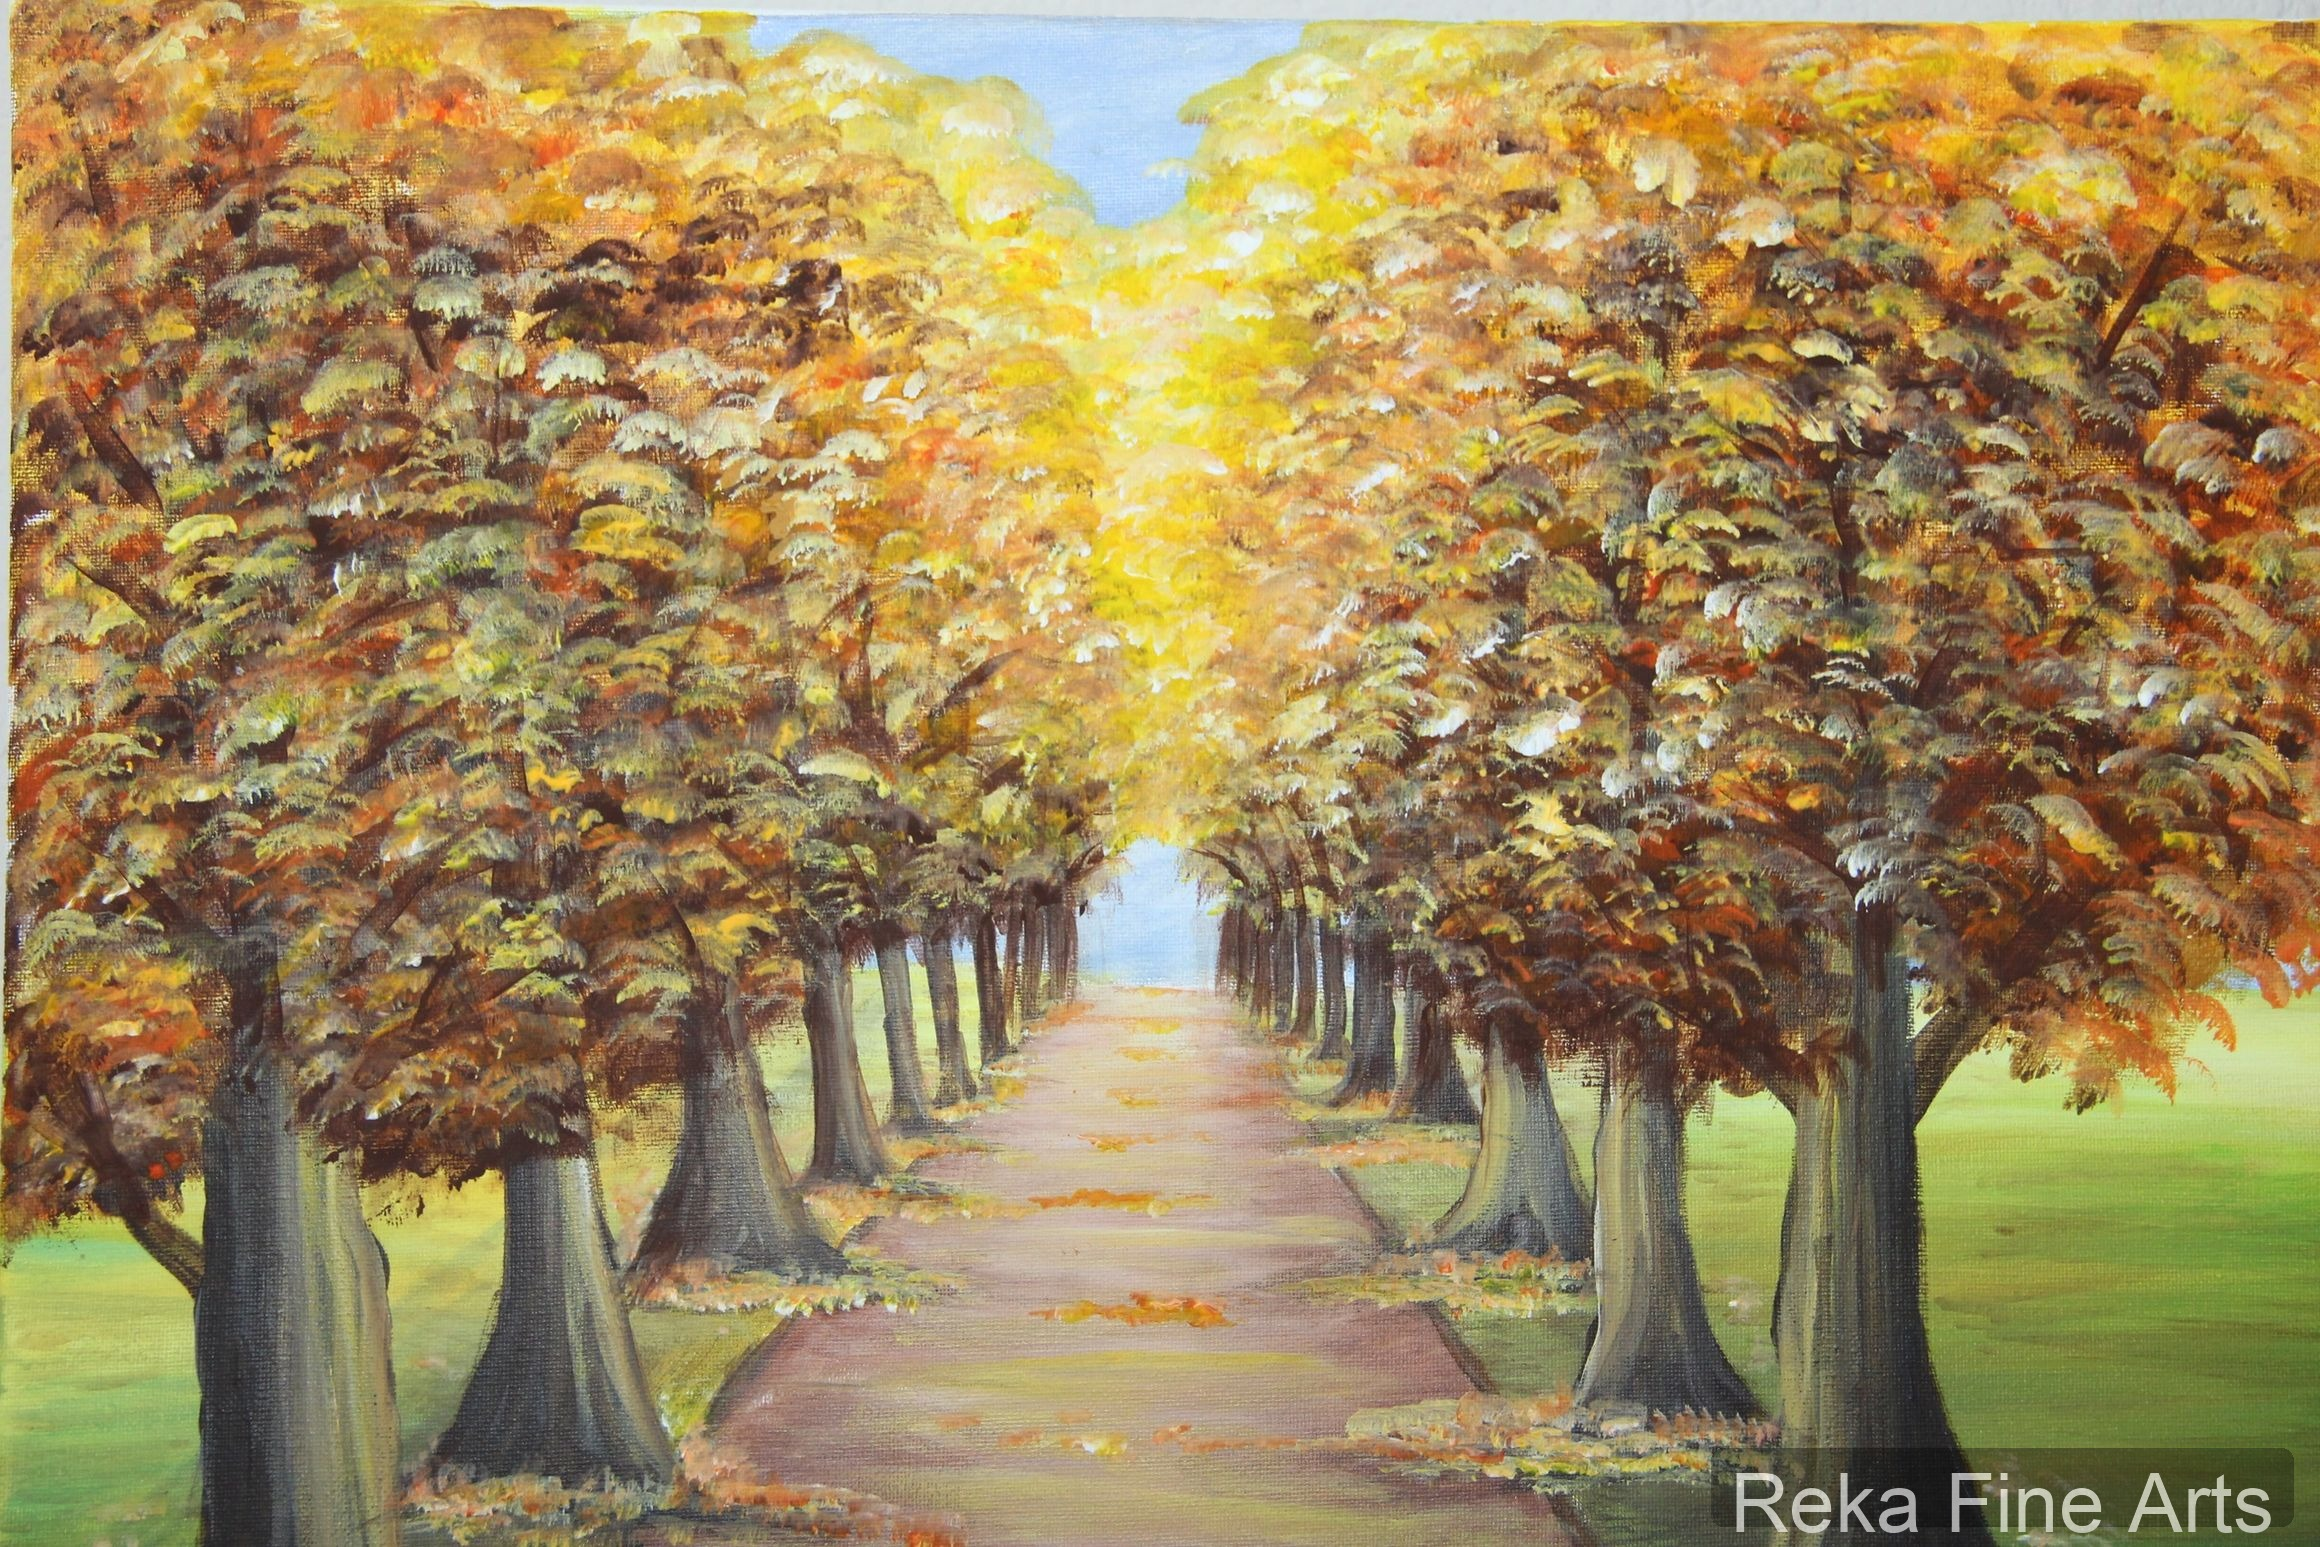
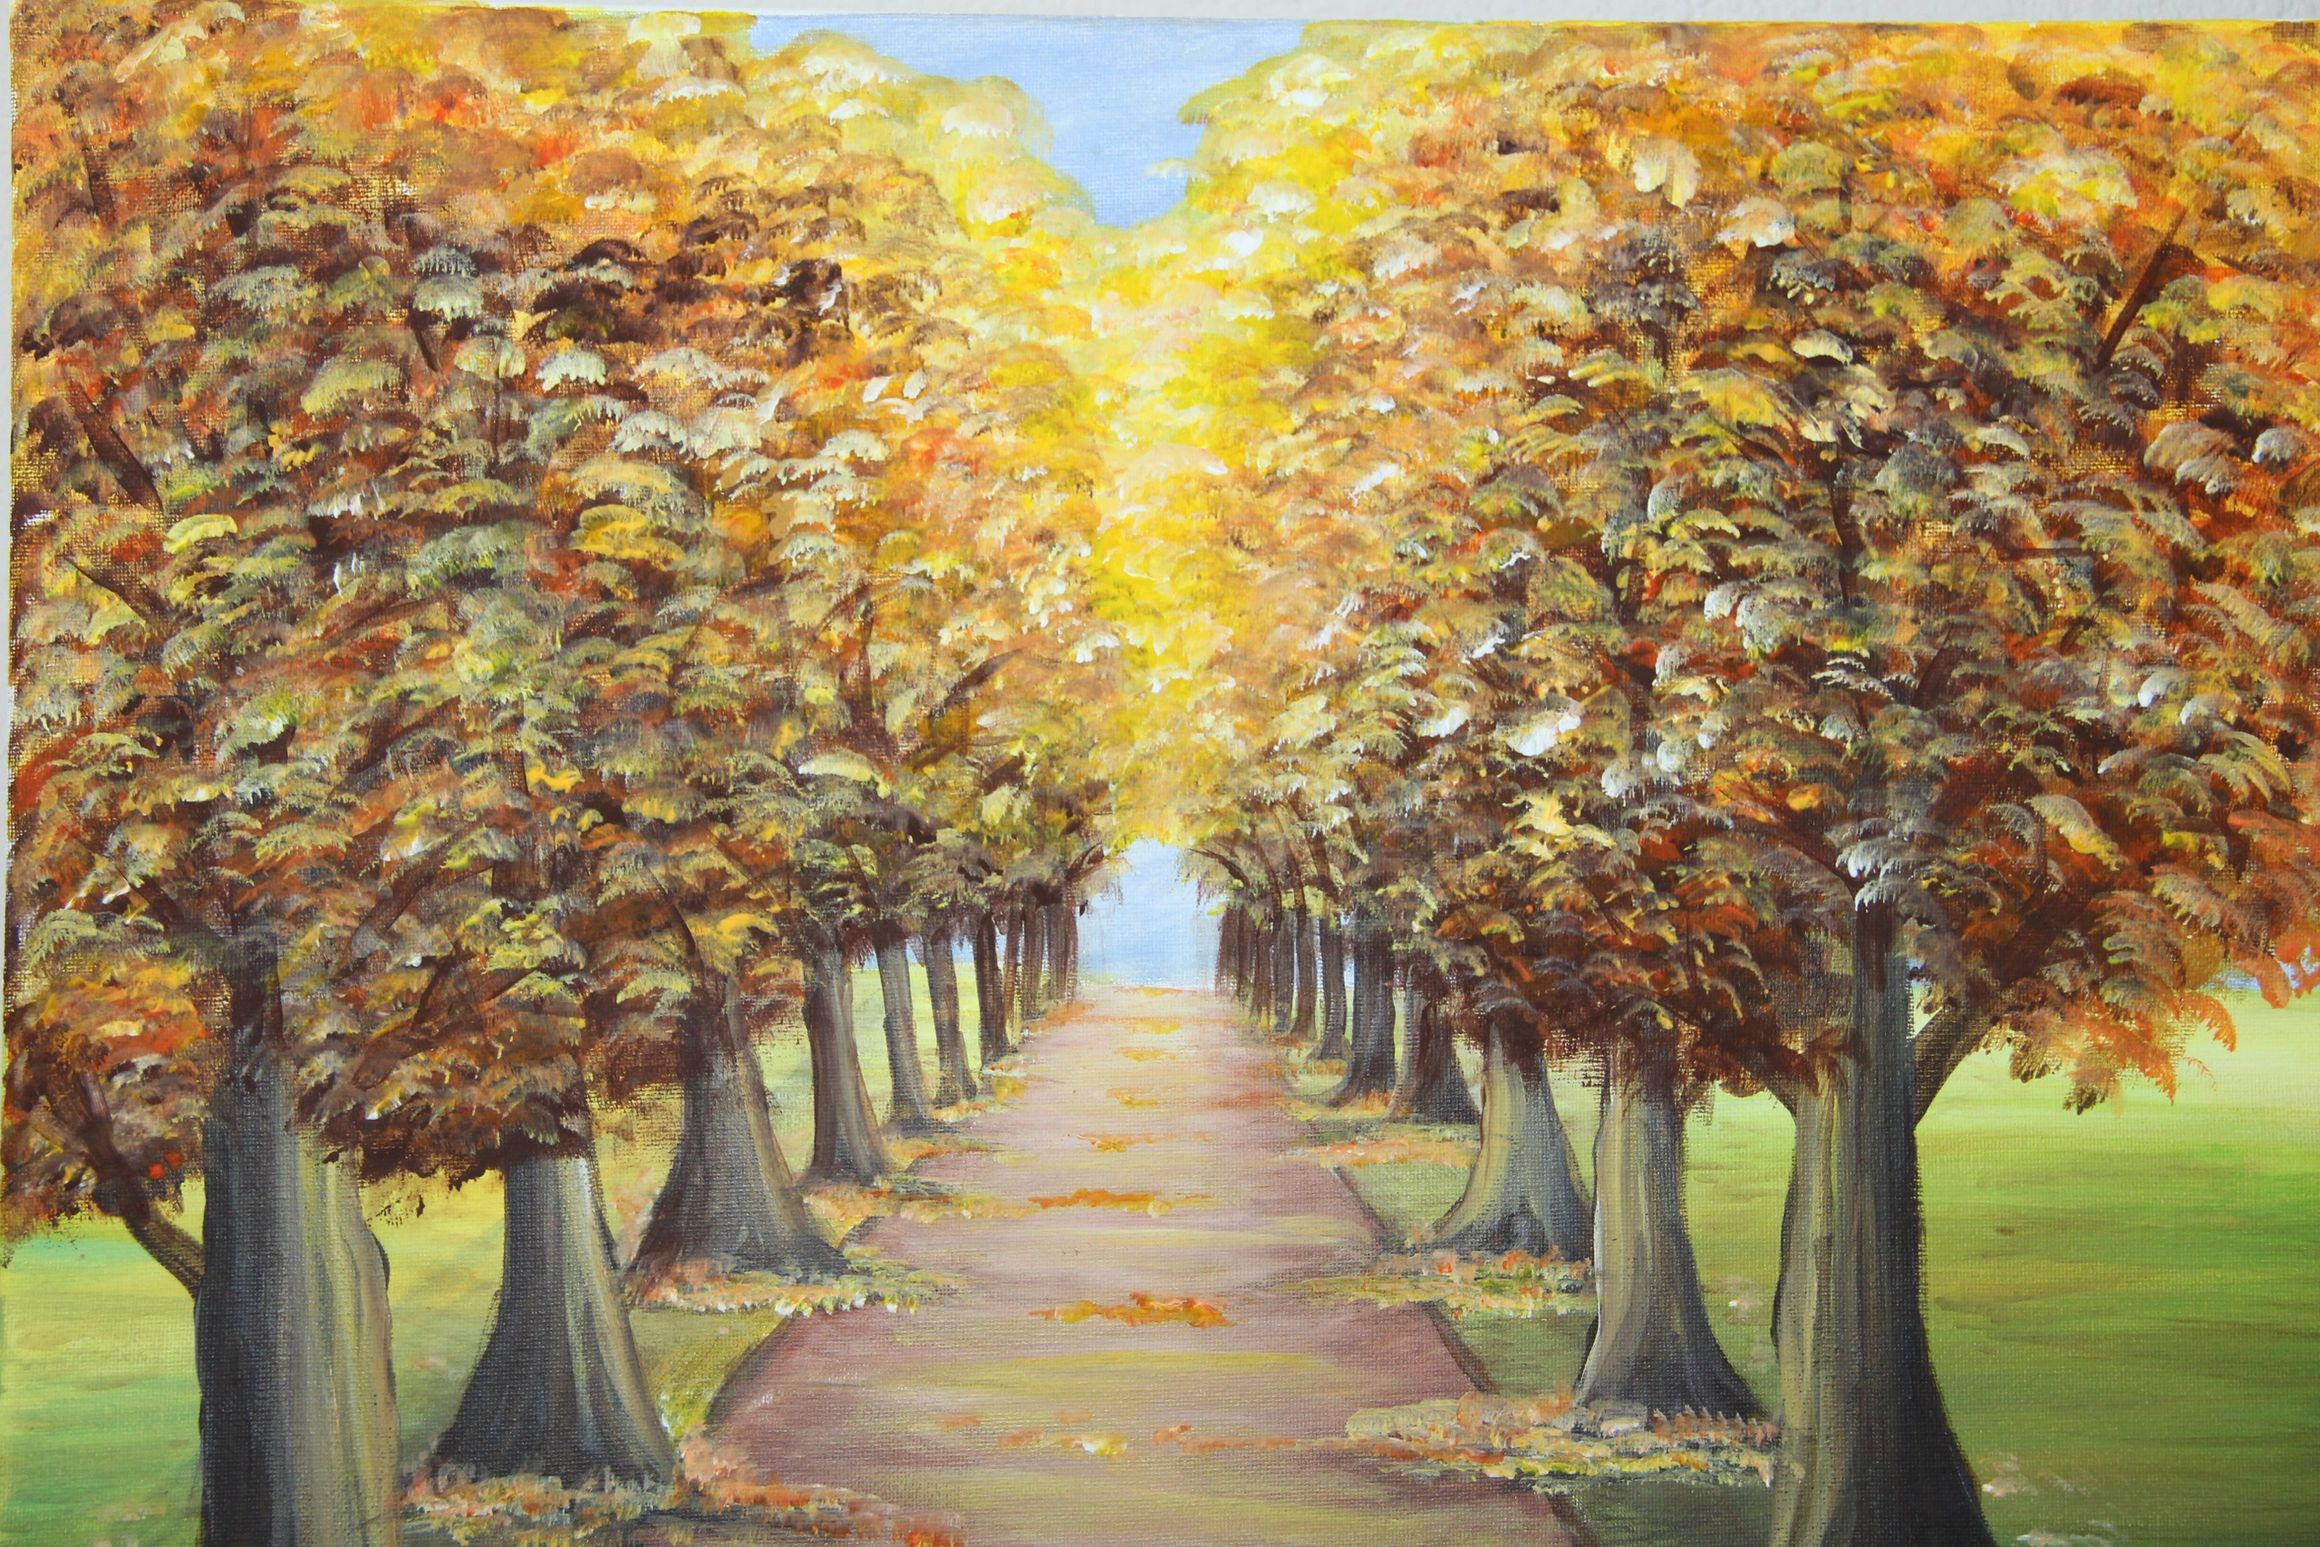
Don't watermark homepage hero images
Restore H001.JPG and H002.jpg in public/images/hero-open/ to their
original (un-watermarked) bytes from the backup. The hero/landing
page should show clean artwork.

Updated scripts/watermark-images.py with a SKIP_DIRS set so future
runs leave hero-open alone.

Changed region(s): [[0.7138, 0.9308, 0.9931, 0.9929]]

diff --git a/scripts/watermark-images.py b/scripts/watermark-images.py
@@ -12,10 +12,17 @@ IMAGES_ROOT = PROJECT / "public" / "images"
 BACKUP_ROOT = IMAGES_ROOT / ".watermark-backup"
 WATERMARK_TEXT = "Reka Fine Arts"
 
+# Folders whose images are intentionally NOT watermarked (e.g., homepage hero).
+SKIP_DIRS = {"hero-open"}
+
 VALID_EXTS = {".jpg", ".jpeg", ".png", ".webp"}
 
 def is_image(path: Path) -> bool:
     return path.suffix.lower() in VALID_EXTS
+
+def in_skip_dir(path: Path) -> bool:
+    rel_parts = path.relative_to(IMAGES_ROOT).parts
+    return any(part in SKIP_DIRS for part in rel_parts)
 
 def find_images():
     if not IMAGES_ROOT.exists():
@@ -25,6 +32,8 @@ def find_images():
         if not p.is_file():
             continue
         if BACKUP_ROOT in p.parents:
+            continue
+        if in_skip_dir(p):
             continue
         if is_image(p):
             files.append(p)